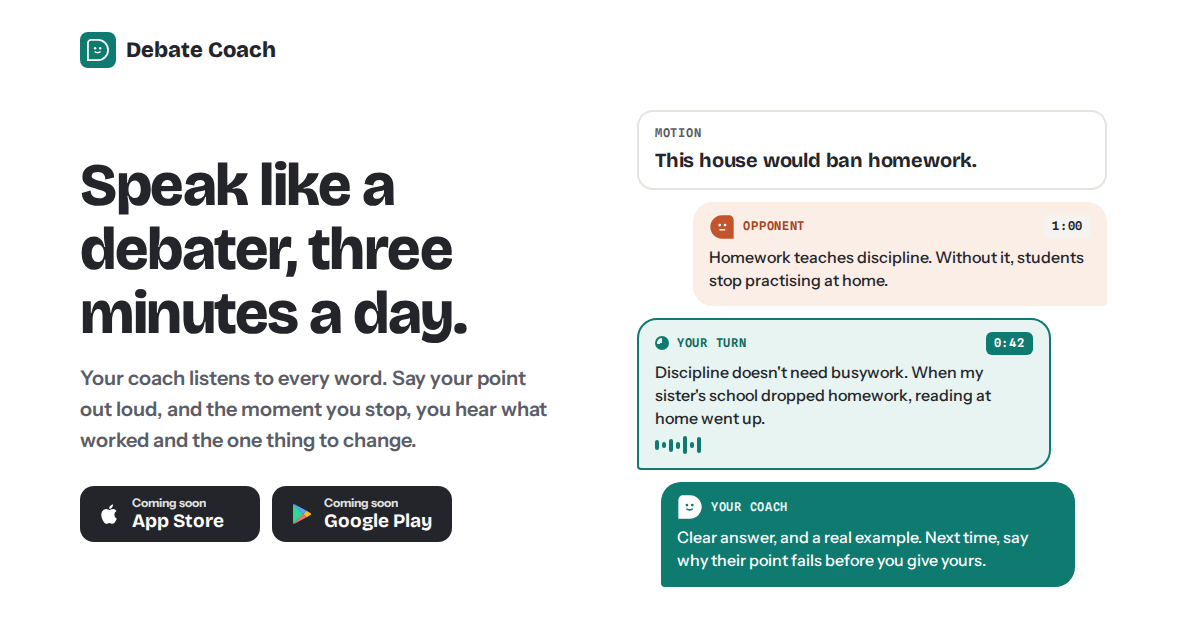
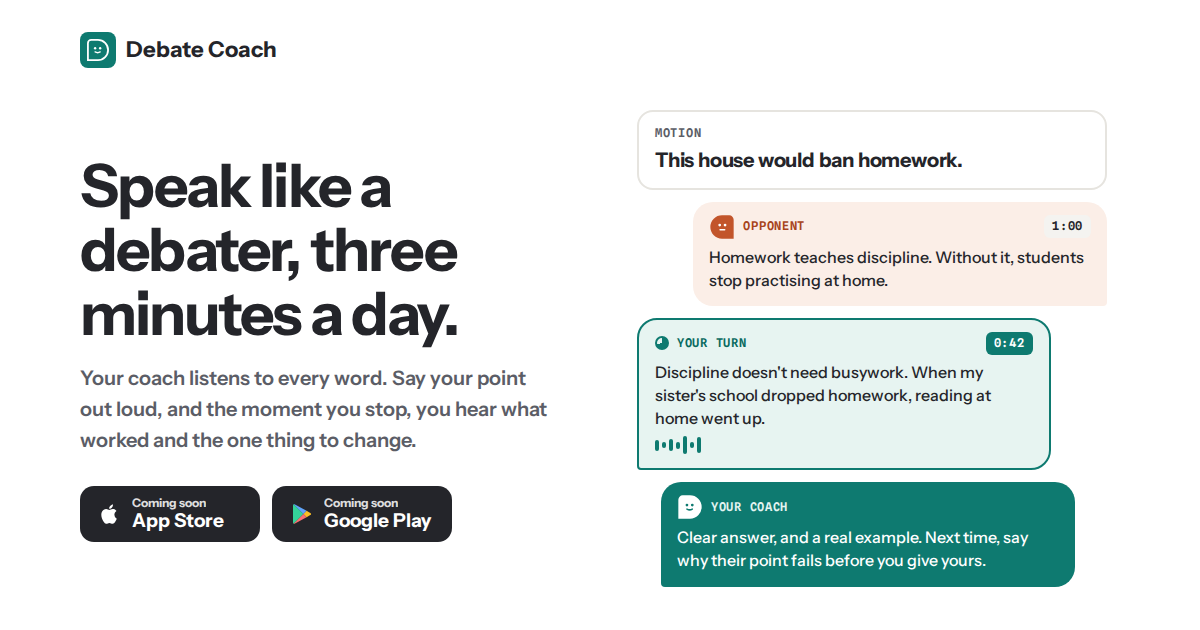
s385: Instrument Sans throughout (no Bricolage); the ballot keeps its tilt (review; not pushed)

diff --git a/index.html b/index.html
@@ -18,13 +18,13 @@
 <meta property="og:description" content="Your coach listens to every word. Say your point out loud, and the moment you stop, you hear what worked and the one thing to change. Coming to iPhone and Android.">
 <meta property="og:image" content="https://debatecoach.app/og.png">
 <meta name="twitter:card" content="summary_large_image">
-<link rel="preconnect" href="https://fonts.googleapis.com"><link rel="preconnect" href="https://fonts.gstatic.com" crossorigin><link rel="stylesheet" href="https://fonts.googleapis.com/css2?family=Bricolage+Grotesque:opsz,wght@12..96,700;12..96,800&family=Instrument+Sans:wght@400;500;600;700&family=Spline+Sans+Mono:wght@500;600&display=swap">
+<link rel="preconnect" href="https://fonts.googleapis.com"><link rel="preconnect" href="https://fonts.gstatic.com" crossorigin><link rel="stylesheet" href="https://fonts.googleapis.com/css2?family=Instrument+Sans:wght@400;500;600;700&family=Spline+Sans+Mono:wght@500;600&display=swap">
 </head>
 <body>
 <style>
 /* Debate Coach (s385): Duolingo's standard (few words, one picture per idea) in debate's own look. Two sides: teal for you,
    rust for the other side. The round in the hero (motion, their speech, your turn on the clock, the coach's answer), the report
-   as a judge's ballot, buttons shaped like the logo's speech bubble. Bricolage Grotesque headings, Instrument Sans body,
+   as a judge's ballot, buttons shaped like the logo's speech bubble. Instrument Sans throughout (Shadow Judge's face, the app's face),
    Spline Sans Mono for clocks and labels. */
 :root{
   --bg:#ffffff; --tint:#f4f3f0; --paper:#ffffff; --ink:#24252a; --muted:#5b5d66; --line:#e6e4df;
@@ -33,7 +33,7 @@
   --sun:#f2b33d; --sun-soft:#fdf3dc;
   --sam:#0e7a70; --sam-face:#ffffff;
   --frame:#24252a; --screen:#ffffff; --shadow:0 18px 40px rgba(36,37,42,.12);
-  --display:"Bricolage Grotesque",ui-sans-serif,system-ui,sans-serif;
+  --display:"Instrument Sans",ui-sans-serif,system-ui,sans-serif;
   --body:"Instrument Sans",ui-sans-serif,system-ui,sans-serif;
   --mono:"Spline Sans Mono",ui-monospace,Menlo,monospace;
   --ballot:#fffdf6; --ballot-line:#ece6d6;
@@ -57,21 +57,21 @@ html{scroll-behavior:smooth}
 @media (prefers-reduced-motion:reduce){html{scroll-behavior:auto}*{animation:none!important}}
 body{background:var(--bg);color:var(--ink);font-family:var(--body);margin:0;font-size:18px;line-height:1.55;-webkit-font-smoothing:antialiased}
 .wrap{max-width:1080px;margin:0 auto;padding-left:max(20px,env(safe-area-inset-left,0px));padding-right:max(20px,env(safe-area-inset-right,0px))}
-h1,h2,h3{margin:0;font-family:var(--display);font-weight:800;letter-spacing:-.025em;text-wrap:balance}
+h1,h2,h3{margin:0;font-family:var(--display);font-weight:700;letter-spacing:-.03em;text-wrap:balance}
 h1{font-size:clamp(40px,5.6vw,60px);line-height:1.06}
 h2{font-size:clamp(32px,4.2vw,46px);line-height:1.1}
 h3{font-size:21px;line-height:1.25;font-weight:700;letter-spacing:-.01em}
 p{margin:0}
 a{color:inherit}
 :focus-visible{outline:3px solid var(--go);outline-offset:3px;border-radius:10px}
-.skip{position:absolute;left:12px;top:-60px;background:var(--paper);color:var(--ink);padding:12px 16px;border-radius:12px;z-index:5;font-weight:800}
+.skip{position:absolute;left:12px;top:-60px;background:var(--paper);color:var(--ink);padding:12px 16px;border-radius:12px;z-index:5;font-weight:700}
 .skip:focus{top:12px}
 
 /* top bar */
 .top{display:flex;align-items:center;justify-content:space-between;padding-block:14px;border-bottom:2px solid var(--line)}
-.brand{white-space:nowrap;display:flex;align-items:center;gap:10px;font-family:var(--display);font-weight:800;font-size:22px;text-decoration:none;min-height:44px;color:var(--ink)}
+.brand{white-space:nowrap;display:flex;align-items:center;gap:10px;font-family:var(--display);font-weight:700;font-size:22px;text-decoration:none;min-height:44px;color:var(--ink)}
 .brand svg{width:36px;height:36px;flex:none}
-.navlinks{display:flex;gap:4px;align-items:center;font-size:15px;font-weight:800}
+.navlinks{display:flex;gap:4px;align-items:center;font-size:15px;font-weight:700}
 .navlinks a{text-decoration:none;min-height:44px;display:inline-flex;align-items:center;padding-inline:12px;border-radius:12px;color:var(--muted)}
 .navlinks a:hover{color:var(--ink);background:var(--tint)}
 
@@ -106,7 +106,7 @@ a{color:inherit}
 .goals{border-block:2px solid var(--line);background:var(--bg)}
 .goals .wrap{display:flex;flex-wrap:wrap;align-items:center;gap:10px 12px;padding-block:20px}
 .goals .lab{font-family:var(--mono);font-weight:600;font-size:13px;letter-spacing:.08em;text-transform:uppercase;color:var(--muted);margin-right:6px}
-.pill{display:inline-flex;align-items:center;gap:8px;min-height:40px;padding:0 16px;border-radius:12px 20px 20px 4px;border:2px solid var(--line);font-weight:800;font-size:16px}
+.pill{display:inline-flex;align-items:center;gap:8px;min-height:40px;padding:0 16px;border-radius:12px 20px 20px 4px;border:2px solid var(--line);font-weight:700;font-size:16px}
 .pill i{width:10px;height:10px;border-radius:50%;display:inline-block}
 
 /* feature rows */
@@ -123,7 +123,7 @@ section{padding-block:72px}
 /* phones */
 .phone{width:280px;border-radius:40px;background:var(--frame);padding:10px;box-shadow:var(--shadow);position:relative;z-index:1}
 .screen{background:var(--screen);border-radius:31px;overflow:hidden;padding:26px 16px 18px;display:flex;flex-direction:column;gap:11px;min-height:520px;font-size:14px;line-height:1.4}
-.s-h{font-family:var(--display);font-weight:800;font-size:20px;letter-spacing:-.01em}
+.s-h{font-family:var(--display);font-weight:700;font-size:20px;letter-spacing:-.01em}
 .s-lab{font-size:11px;font-weight:700;letter-spacing:.08em;text-transform:uppercase;color:var(--muted)}
 .s-card{border:2px solid var(--line);border-radius:16px;padding:12px;display:flex;flex-direction:column;gap:6px}
 .s-today{background:var(--go);color:#fff;border-radius:18px;padding:14px;display:flex;flex-direction:column;gap:9px}
@@ -131,7 +131,7 @@ section{padding-block:72px}
 .s-btn{min-height:42px;padding:0 10px;text-align:center;border-radius:11px 20px 20px 3px;background:#fff;color:var(--go-edge);font-weight:700;display:flex;align-items:center;justify-content:center;font-size:14px}
 .s-btn.go{background:var(--go);color:#fff}
 .chips{display:flex;flex-wrap:wrap;gap:6px}
-.chip{display:inline-flex;align-items:center;gap:5px;min-height:26px;padding:0 10px;border-radius:999px;font-size:12.5px;font-weight:800;background:var(--tint);color:var(--ink)}
+.chip{display:inline-flex;align-items:center;gap:5px;min-height:26px;padding:0 10px;border-radius:999px;font-size:12.5px;font-weight:700;background:var(--tint);color:var(--ink)}
 .chip.on{background:var(--go-soft);color:var(--go-text)}
 .chip.next{background:var(--rust-soft);color:var(--rust-text)}
 .chip.sun{background:var(--sun-soft);color:var(--ink)}
@@ -153,7 +153,7 @@ section{padding-block:72px}
 .node b{font-size:14px;display:block}
 .node span{font-size:11.5px;color:var(--muted);font-weight:700}
 .langs{list-style:none;margin:4px 0 0;padding:0;display:flex;flex-wrap:wrap;gap:8px}
-.langs li{min-height:34px;display:inline-flex;align-items:center;padding:0 12px;border-radius:999px;background:var(--paper);border:2px solid var(--line);font-weight:800;font-size:15px}
+.langs li{min-height:34px;display:inline-flex;align-items:center;padding:0 12px;border-radius:999px;background:var(--paper);border:2px solid var(--line);font-weight:700;font-size:15px}
 .tr{font-size:12.5px;color:var(--muted);border-left:3px solid var(--line);padding-left:8px;font-weight:600}
 .float{position:absolute;z-index:2}
 
@@ -168,7 +168,7 @@ section{padding-block:72px}
 /* questions */
 .faq{display:grid;grid-template-columns:1fr 1fr;gap:12px 24px;margin-top:32px}
 details{border:2px solid var(--line);border-radius:18px;padding:0 20px;background:var(--paper)}
-summary{cursor:pointer;font-weight:800;font-size:18px;min-height:60px;padding-block:14px;display:flex;align-items:center;justify-content:space-between;gap:12px;list-style:none}
+summary{cursor:pointer;font-weight:700;font-size:18px;min-height:60px;padding-block:14px;display:flex;align-items:center;justify-content:space-between;gap:12px;list-style:none}
 summary::-webkit-details-marker{display:none}
 summary::after{content:"+";font-size:26px;font-weight:700;color:var(--muted);flex:none}
 details[open] summary::after{content:"−"}
@@ -213,7 +213,7 @@ footer .links a:hover{color:var(--ink)}
 /* the ballot: a judge's sheet, not an app card */
 .ballot{width:340px;max-width:100%;background:var(--ballot);border:2px solid var(--ballot-line);border-radius:6px;padding:20px 20px 16px;box-shadow:var(--shadow);transform:rotate(-1.5deg);display:flex;flex-direction:column;gap:12px;background-image:repeating-linear-gradient(to bottom,transparent 0 27px,var(--ballot-line) 27px 28px);background-position:0 54px}
 .b-head{display:flex;justify-content:space-between;border-bottom:3px double var(--ink);padding-bottom:8px;color:var(--ink);font-size:13px}
-.b-head span:first-child{font-family:var(--display);font-size:22px;font-weight:800;letter-spacing:.02em}
+.b-head span:first-child{font-family:var(--display);font-size:22px;font-weight:700;letter-spacing:.02em}
 .b-line{display:flex;gap:10px;align-items:baseline;font-weight:600;font-size:15px}
 .b-k{color:var(--muted);font-size:11px;flex:none}
 .b-box{border-left:4px solid var(--go);padding:4px 0 4px 12px;display:flex;flex-direction:column;gap:4px;background:var(--ballot)}
@@ -357,7 +357,7 @@ footer .links a:hover{color:var(--ink)}
       <div class="phone" role="img" aria-label="The end of a practice. The coach cheers and says the reason was clear and to add an example next time. Two chips read Gave a reason and Add an example, and the streak reaches day one.">
         <div class="screen" style="align-items:stretch">
           <div style="display:flex;justify-content:center;padding-top:6px"><svg width="110" height="110" aria-hidden="true"><use href="#sam-cheer"/></svg></div>
-          <div style="text-align:center;font-family:var(--display);font-weight:800;font-size:24px">Nice one</div>
+          <div style="text-align:center;font-family:var(--display);font-weight:700;font-size:24px">Nice one</div>
           <div class="bubble">"You gave a clear reason. Next time, add one example from your own class."</div>
           <div class="chips" style="justify-content:center"><span class="chip on">You did: gave a reason</span><span class="chip next">Next: add an example</span></div>
           <div class="s-card" style="flex-direction:row;align-items:center;gap:10px"><svg width="26" height="26" aria-hidden="true"><use href="#flame"/></svg><div><b>Day 1 of your streak</b><div style="font-size:12px;color:var(--muted);font-weight:600">Your full report is on its way.</div></div></div>

diff --git a/src/body.html b/src/body.html
@@ -1,7 +1,7 @@
 <style>
 /* Debate Coach (s385): Duolingo's standard (few words, one picture per idea) in debate's own look. Two sides: teal for you,
    rust for the other side. The round in the hero (motion, their speech, your turn on the clock, the coach's answer), the report
-   as a judge's ballot, buttons shaped like the logo's speech bubble. Bricolage Grotesque headings, Instrument Sans body,
+   as a judge's ballot, buttons shaped like the logo's speech bubble. Instrument Sans throughout (Shadow Judge's face, the app's face),
    Spline Sans Mono for clocks and labels. */
 :root{
   --bg:#ffffff; --tint:#f4f3f0; --paper:#ffffff; --ink:#24252a; --muted:#5b5d66; --line:#e6e4df;
@@ -10,7 +10,7 @@
   --sun:#f2b33d; --sun-soft:#fdf3dc;
   --sam:#0e7a70; --sam-face:#ffffff;
   --frame:#24252a; --screen:#ffffff; --shadow:0 18px 40px rgba(36,37,42,.12);
-  --display:"Bricolage Grotesque",ui-sans-serif,system-ui,sans-serif;
+  --display:"Instrument Sans",ui-sans-serif,system-ui,sans-serif;
   --body:"Instrument Sans",ui-sans-serif,system-ui,sans-serif;
   --mono:"Spline Sans Mono",ui-monospace,Menlo,monospace;
   --ballot:#fffdf6; --ballot-line:#ece6d6;
@@ -34,21 +34,21 @@ html{scroll-behavior:smooth}
 @media (prefers-reduced-motion:reduce){html{scroll-behavior:auto}*{animation:none!important}}
 body{background:var(--bg);color:var(--ink);font-family:var(--body);margin:0;font-size:18px;line-height:1.55;-webkit-font-smoothing:antialiased}
 .wrap{max-width:1080px;margin:0 auto;padding-left:max(20px,env(safe-area-inset-left,0px));padding-right:max(20px,env(safe-area-inset-right,0px))}
-h1,h2,h3{margin:0;font-family:var(--display);font-weight:800;letter-spacing:-.025em;text-wrap:balance}
+h1,h2,h3{margin:0;font-family:var(--display);font-weight:700;letter-spacing:-.03em;text-wrap:balance}
 h1{font-size:clamp(40px,5.6vw,60px);line-height:1.06}
 h2{font-size:clamp(32px,4.2vw,46px);line-height:1.1}
 h3{font-size:21px;line-height:1.25;font-weight:700;letter-spacing:-.01em}
 p{margin:0}
 a{color:inherit}
 :focus-visible{outline:3px solid var(--go);outline-offset:3px;border-radius:10px}
-.skip{position:absolute;left:12px;top:-60px;background:var(--paper);color:var(--ink);padding:12px 16px;border-radius:12px;z-index:5;font-weight:800}
+.skip{position:absolute;left:12px;top:-60px;background:var(--paper);color:var(--ink);padding:12px 16px;border-radius:12px;z-index:5;font-weight:700}
 .skip:focus{top:12px}
 
 /* top bar */
 .top{display:flex;align-items:center;justify-content:space-between;padding-block:14px;border-bottom:2px solid var(--line)}
-.brand{white-space:nowrap;display:flex;align-items:center;gap:10px;font-family:var(--display);font-weight:800;font-size:22px;text-decoration:none;min-height:44px;color:var(--ink)}
+.brand{white-space:nowrap;display:flex;align-items:center;gap:10px;font-family:var(--display);font-weight:700;font-size:22px;text-decoration:none;min-height:44px;color:var(--ink)}
 .brand svg{width:36px;height:36px;flex:none}
-.navlinks{display:flex;gap:4px;align-items:center;font-size:15px;font-weight:800}
+.navlinks{display:flex;gap:4px;align-items:center;font-size:15px;font-weight:700}
 .navlinks a{text-decoration:none;min-height:44px;display:inline-flex;align-items:center;padding-inline:12px;border-radius:12px;color:var(--muted)}
 .navlinks a:hover{color:var(--ink);background:var(--tint)}
 
@@ -83,7 +83,7 @@ a{color:inherit}
 .goals{border-block:2px solid var(--line);background:var(--bg)}
 .goals .wrap{display:flex;flex-wrap:wrap;align-items:center;gap:10px 12px;padding-block:20px}
 .goals .lab{font-family:var(--mono);font-weight:600;font-size:13px;letter-spacing:.08em;text-transform:uppercase;color:var(--muted);margin-right:6px}
-.pill{display:inline-flex;align-items:center;gap:8px;min-height:40px;padding:0 16px;border-radius:12px 20px 20px 4px;border:2px solid var(--line);font-weight:800;font-size:16px}
+.pill{display:inline-flex;align-items:center;gap:8px;min-height:40px;padding:0 16px;border-radius:12px 20px 20px 4px;border:2px solid var(--line);font-weight:700;font-size:16px}
 .pill i{width:10px;height:10px;border-radius:50%;display:inline-block}
 
 /* feature rows */
@@ -100,7 +100,7 @@ section{padding-block:72px}
 /* phones */
 .phone{width:280px;border-radius:40px;background:var(--frame);padding:10px;box-shadow:var(--shadow);position:relative;z-index:1}
 .screen{background:var(--screen);border-radius:31px;overflow:hidden;padding:26px 16px 18px;display:flex;flex-direction:column;gap:11px;min-height:520px;font-size:14px;line-height:1.4}
-.s-h{font-family:var(--display);font-weight:800;font-size:20px;letter-spacing:-.01em}
+.s-h{font-family:var(--display);font-weight:700;font-size:20px;letter-spacing:-.01em}
 .s-lab{font-size:11px;font-weight:700;letter-spacing:.08em;text-transform:uppercase;color:var(--muted)}
 .s-card{border:2px solid var(--line);border-radius:16px;padding:12px;display:flex;flex-direction:column;gap:6px}
 .s-today{background:var(--go);color:#fff;border-radius:18px;padding:14px;display:flex;flex-direction:column;gap:9px}
@@ -108,7 +108,7 @@ section{padding-block:72px}
 .s-btn{min-height:42px;padding:0 10px;text-align:center;border-radius:11px 20px 20px 3px;background:#fff;color:var(--go-edge);font-weight:700;display:flex;align-items:center;justify-content:center;font-size:14px}
 .s-btn.go{background:var(--go);color:#fff}
 .chips{display:flex;flex-wrap:wrap;gap:6px}
-.chip{display:inline-flex;align-items:center;gap:5px;min-height:26px;padding:0 10px;border-radius:999px;font-size:12.5px;font-weight:800;background:var(--tint);color:var(--ink)}
+.chip{display:inline-flex;align-items:center;gap:5px;min-height:26px;padding:0 10px;border-radius:999px;font-size:12.5px;font-weight:700;background:var(--tint);color:var(--ink)}
 .chip.on{background:var(--go-soft);color:var(--go-text)}
 .chip.next{background:var(--rust-soft);color:var(--rust-text)}
 .chip.sun{background:var(--sun-soft);color:var(--ink)}
@@ -130,7 +130,7 @@ section{padding-block:72px}
 .node b{font-size:14px;display:block}
 .node span{font-size:11.5px;color:var(--muted);font-weight:700}
 .langs{list-style:none;margin:4px 0 0;padding:0;display:flex;flex-wrap:wrap;gap:8px}
-.langs li{min-height:34px;display:inline-flex;align-items:center;padding:0 12px;border-radius:999px;background:var(--paper);border:2px solid var(--line);font-weight:800;font-size:15px}
+.langs li{min-height:34px;display:inline-flex;align-items:center;padding:0 12px;border-radius:999px;background:var(--paper);border:2px solid var(--line);font-weight:700;font-size:15px}
 .tr{font-size:12.5px;color:var(--muted);border-left:3px solid var(--line);padding-left:8px;font-weight:600}
 .float{position:absolute;z-index:2}
 
@@ -145,7 +145,7 @@ section{padding-block:72px}
 /* questions */
 .faq{display:grid;grid-template-columns:1fr 1fr;gap:12px 24px;margin-top:32px}
 details{border:2px solid var(--line);border-radius:18px;padding:0 20px;background:var(--paper)}
-summary{cursor:pointer;font-weight:800;font-size:18px;min-height:60px;padding-block:14px;display:flex;align-items:center;justify-content:space-between;gap:12px;list-style:none}
+summary{cursor:pointer;font-weight:700;font-size:18px;min-height:60px;padding-block:14px;display:flex;align-items:center;justify-content:space-between;gap:12px;list-style:none}
 summary::-webkit-details-marker{display:none}
 summary::after{content:"+";font-size:26px;font-weight:700;color:var(--muted);flex:none}
 details[open] summary::after{content:"−"}
@@ -190,7 +190,7 @@ footer .links a:hover{color:var(--ink)}
 /* the ballot: a judge's sheet, not an app card */
 .ballot{width:340px;max-width:100%;background:var(--ballot);border:2px solid var(--ballot-line);border-radius:6px;padding:20px 20px 16px;box-shadow:var(--shadow);transform:rotate(-1.5deg);display:flex;flex-direction:column;gap:12px;background-image:repeating-linear-gradient(to bottom,transparent 0 27px,var(--ballot-line) 27px 28px);background-position:0 54px}
 .b-head{display:flex;justify-content:space-between;border-bottom:3px double var(--ink);padding-bottom:8px;color:var(--ink);font-size:13px}
-.b-head span:first-child{font-family:var(--display);font-size:22px;font-weight:800;letter-spacing:.02em}
+.b-head span:first-child{font-family:var(--display);font-size:22px;font-weight:700;letter-spacing:.02em}
 .b-line{display:flex;gap:10px;align-items:baseline;font-weight:600;font-size:15px}
 .b-k{color:var(--muted);font-size:11px;flex:none}
 .b-box{border-left:4px solid var(--go);padding:4px 0 4px 12px;display:flex;flex-direction:column;gap:4px;background:var(--ballot)}
@@ -334,7 +334,7 @@ footer .links a:hover{color:var(--ink)}
       <div class="phone" role="img" aria-label="The end of a practice. The coach cheers and says the reason was clear and to add an example next time. Two chips read Gave a reason and Add an example, and the streak reaches day one.">
         <div class="screen" style="align-items:stretch">
           <div style="display:flex;justify-content:center;padding-top:6px"><svg width="110" height="110" aria-hidden="true"><use href="#sam-cheer"/></svg></div>
-          <div style="text-align:center;font-family:var(--display);font-weight:800;font-size:24px">Nice one</div>
+          <div style="text-align:center;font-family:var(--display);font-weight:700;font-size:24px">Nice one</div>
           <div class="bubble">"You gave a clear reason. Next time, add one example from your own class."</div>
           <div class="chips" style="justify-content:center"><span class="chip on">You did: gave a reason</span><span class="chip next">Next: add an example</span></div>
           <div class="s-card" style="flex-direction:row;align-items:center;gap:10px"><svg width="26" height="26" aria-hidden="true"><use href="#flame"/></svg><div><b>Day 1 of your streak</b><div style="font-size:12px;color:var(--muted);font-weight:600">Your full report is on its way.</div></div></div>
